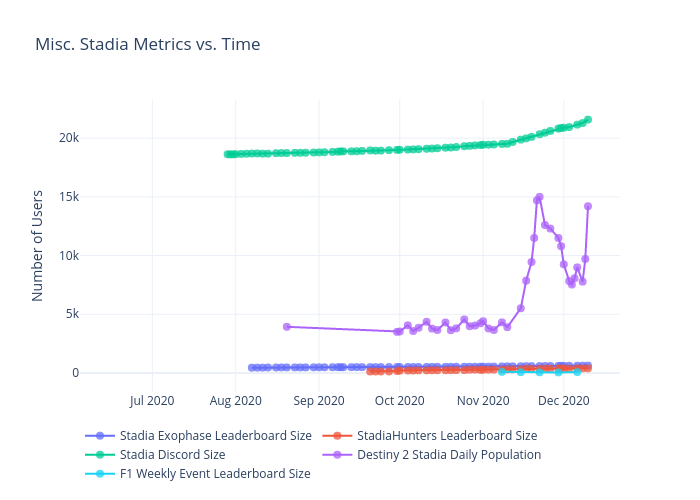
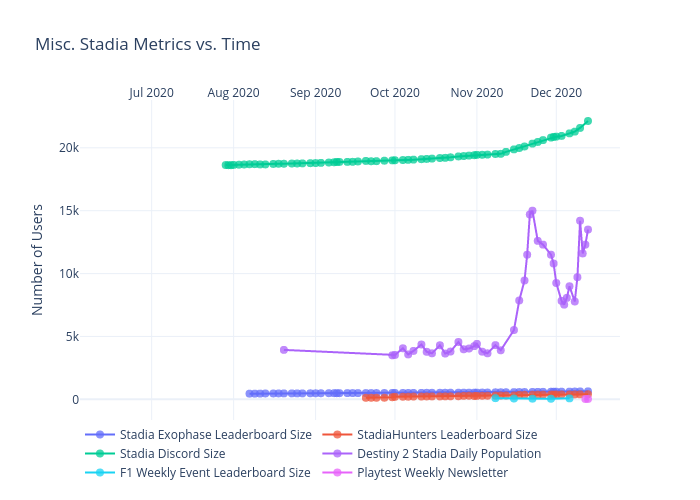
Add files via upload

diff --git a/misc/figure.js b/misc/figure.js
@@ -83,6 +83,8 @@ var figure = {
                 "2020-12-08",
                 "2020-12-09",
                 "2020-12-10",
+                "2020-12-11",
+                "2020-12-12",
                 "2020-12-13",
                 "2020-12-15",
                 "2020-12-17",
@@ -166,7 +168,10 @@ var figure = {
                 "613",
                 "622",
                 "",
-                "628"
+                "628",
+                "",
+                "",
+                "636"
             ],
             "marker": {
                 "size": 8,
@@ -259,6 +264,8 @@ var figure = {
                 "2020-12-08",
                 "2020-12-09",
                 "2020-12-10",
+                "2020-12-11",
+                "2020-12-12",
                 "2020-12-13",
                 "2020-12-15",
                 "2020-12-17",
@@ -342,7 +349,10 @@ var figure = {
                 "387",
                 "390",
                 "",
-                "394"
+                "394",
+                "",
+                "",
+                "405"
             ],
             "marker": {
                 "size": 8,
@@ -435,6 +445,8 @@ var figure = {
                 "2020-12-08",
                 "2020-12-09",
                 "2020-12-10",
+                "2020-12-11",
+                "2020-12-12",
                 "2020-12-13",
                 "2020-12-15",
                 "2020-12-17",
@@ -518,7 +530,10 @@ var figure = {
                 "21149",
                 "21286",
                 "",
-                "21581"
+                "21581",
+                "",
+                "",
+                "22132"
             ],
             "marker": {
                 "size": 8,
@@ -611,6 +626,8 @@ var figure = {
                 "2020-12-08",
                 "2020-12-09",
                 "2020-12-10",
+                "2020-12-11",
+                "2020-12-12",
                 "2020-12-13",
                 "2020-12-15",
                 "2020-12-17",
@@ -694,7 +711,10 @@ var figure = {
                 "8990",
                 "7780",
                 "9710",
-                "14200"
+                "14200",
+                "11600",
+                "12300",
+                "13500"
             ],
             "marker": {
                 "size": 8,
@@ -787,6 +807,8 @@ var figure = {
                 "2020-12-08",
                 "2020-12-09",
                 "2020-12-10",
+                "2020-12-11",
+                "2020-12-12",
                 "2020-12-13",
                 "2020-12-15",
                 "2020-12-17",
@@ -876,6 +898,186 @@ var figure = {
             "stackgroup": null,
             "connectgaps": true,
             "hovertemplate": "%{x}, %{y}"
+        },
+        {
+            "meta": {
+                "columnNames": {
+                    "x": "Date",
+                    "y": "Playtest Weekly Newsletter"
+                }
+            },
+            "mode": "markers+lines",
+            "name": "%{meta.columnNames.y}",
+            "type": "scatter",
+            "xsrc": "jdeslip:366:739eb8",
+            "x": [
+                "Date",
+                "2020-06-16",
+                "2020-07-29",
+                "2020-07-30",
+                "2020-07-31",
+                "2020-08-01",
+                "2020-08-03",
+                "2020-08-05",
+                "2020-08-07",
+                "2020-08-09",
+                "2020-08-11",
+                "2020-08-13",
+                "2020-08-16",
+                "2020-08-18",
+                "2020-08-20",
+                "2020-08-23",
+                "2020-08-25",
+                "2020-08-27",
+                "2020-08-30",
+                "2020-09-01",
+                "2020-09-03",
+                "2020-09-06",
+                "2020-09-08",
+                "2020-09-09",
+                "2020-09-10",
+                "2020-09-13",
+                "2020-09-15",
+                "2020-09-17",
+                "2020-09-20",
+                "2020-09-22",
+                "2020-09-24",
+                "2020-09-27",
+                "2020-09-30",
+                "2020-10-01",
+                "2020-10-04",
+                "2020-10-06",
+                "2020-10-08",
+                "2020-10-11",
+                "2020-10-13",
+                "2020-10-15",
+                "2020-10-18",
+                "2020-10-20",
+                "2020-10-22",
+                "2020-10-25",
+                "2020-10-27",
+                "2020-10-29",
+                "2020-10-31",
+                "2020-11-01",
+                "2020-11-03",
+                "2020-11-05",
+                "2020-11-08",
+                "2020-11-10",
+                "2020-11-12",
+                "2020-11-15",
+                "2020-11-17",
+                "2020-11-19",
+                "2020-11-20",
+                "2020-11-21",
+                "2020-11-22",
+                "2020-11-24",
+                "2020-11-26",
+                "2020-11-29",
+                "2020-11-30",
+                "2020-12-01",
+                "2020-12-03",
+                "2020-12-04",
+                "2020-12-05",
+                "2020-12-06",
+                "2020-12-08",
+                "2020-12-09",
+                "2020-12-10",
+                "2020-12-11",
+                "2020-12-12",
+                "2020-12-13",
+                "2020-12-15",
+                "2020-12-17",
+                "2020-12-20",
+                "2020-12-22",
+                "2020-12-24",
+                "2020-12-27",
+                "2020-12-29",
+                "2020-12-31",
+                "2021-01-03"
+            ],
+            "ysrc": "jdeslip:366:ed4bb0",
+            "y": [
+                "Playtest Weekly Newsletter",
+                null,
+                null,
+                null,
+                null,
+                null,
+                null,
+                null,
+                null,
+                null,
+                null,
+                null,
+                null,
+                null,
+                null,
+                null,
+                null,
+                null,
+                null,
+                null,
+                null,
+                null,
+                null,
+                null,
+                null,
+                null,
+                null,
+                null,
+                null,
+                null,
+                null,
+                null,
+                null,
+                null,
+                null,
+                null,
+                null,
+                null,
+                null,
+                null,
+                null,
+                null,
+                null,
+                null,
+                null,
+                null,
+                null,
+                null,
+                null,
+                null,
+                null,
+                null,
+                null,
+                null,
+                null,
+                null,
+                null,
+                null,
+                null,
+                null,
+                null,
+                null,
+                null,
+                null,
+                null,
+                null,
+                null,
+                null,
+                null,
+                null,
+                null,
+                "",
+                "27",
+                "32"
+            ],
+            "marker": {
+                "size": 8,
+                "opacity": 0.75
+            },
+            "stackgroup": null,
+            "hovertemplate": "%{x}, %{y}"
         }
     ],
     "layout": {
@@ -883,10 +1085,11 @@ var figure = {
             "text": "Misc. Stadia Metrics vs. Time"
         },
         "xaxis": {
+            "side": "top",
             "type": "date",
             "range": [
-                "2020-06-04 21:47:10.3162",
-                "2020-12-21 02:12:49.6838"
+                "2020-06-04 17:16:26.7623",
+                "2020-12-24 06:43:33.2377"
             ],
             "title": {
                 "text": ""
@@ -896,8 +1099,8 @@ var figure = {
         "yaxis": {
             "type": "linear",
             "range": [
-                -1954.3948787062,
-                23583.3948787062
+                -1779.5084785680642,
+                23938.508478568063
             ],
             "title": {
                 "text": "Number of Users"
@@ -906,7 +1109,7 @@ var figure = {
         },
         "legend": {
             "x": 0,
-            "y": -0.1,
+            "y": 0,
             "bgcolor": "rgba(255, 255, 255, 0.01)",
             "orientation": "h"
         },
